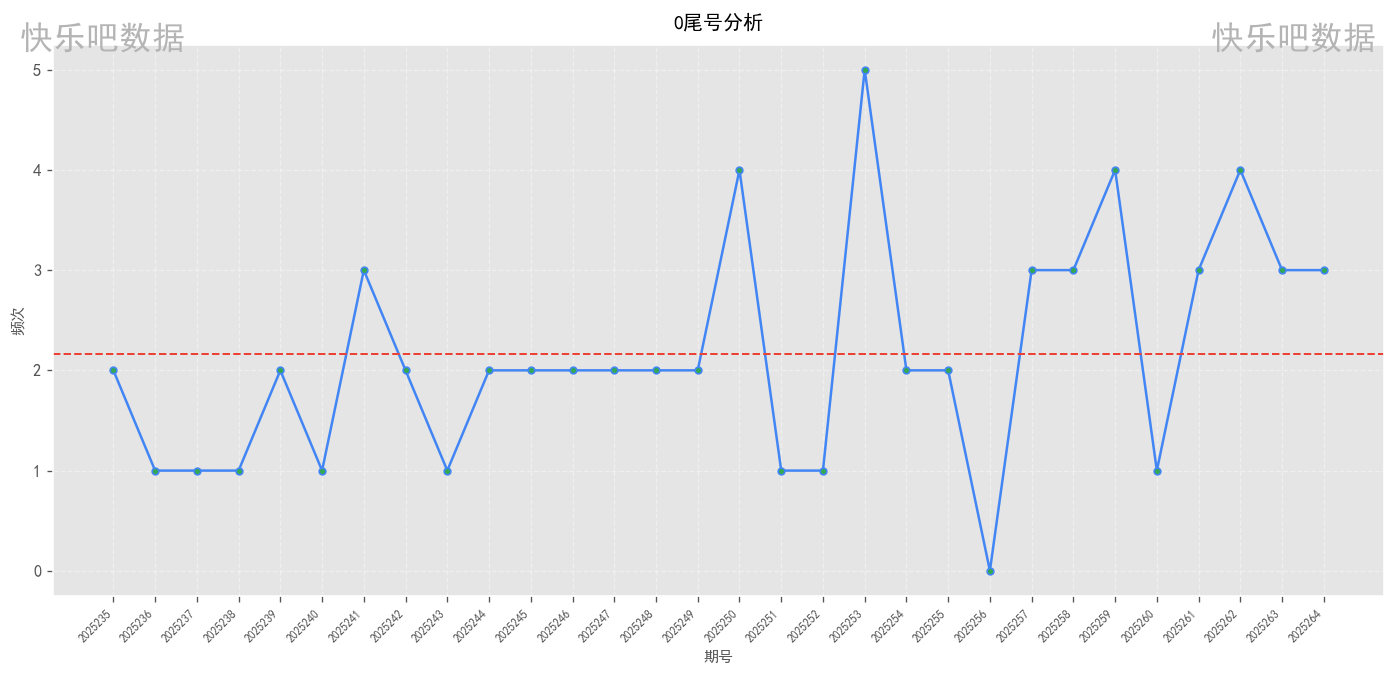
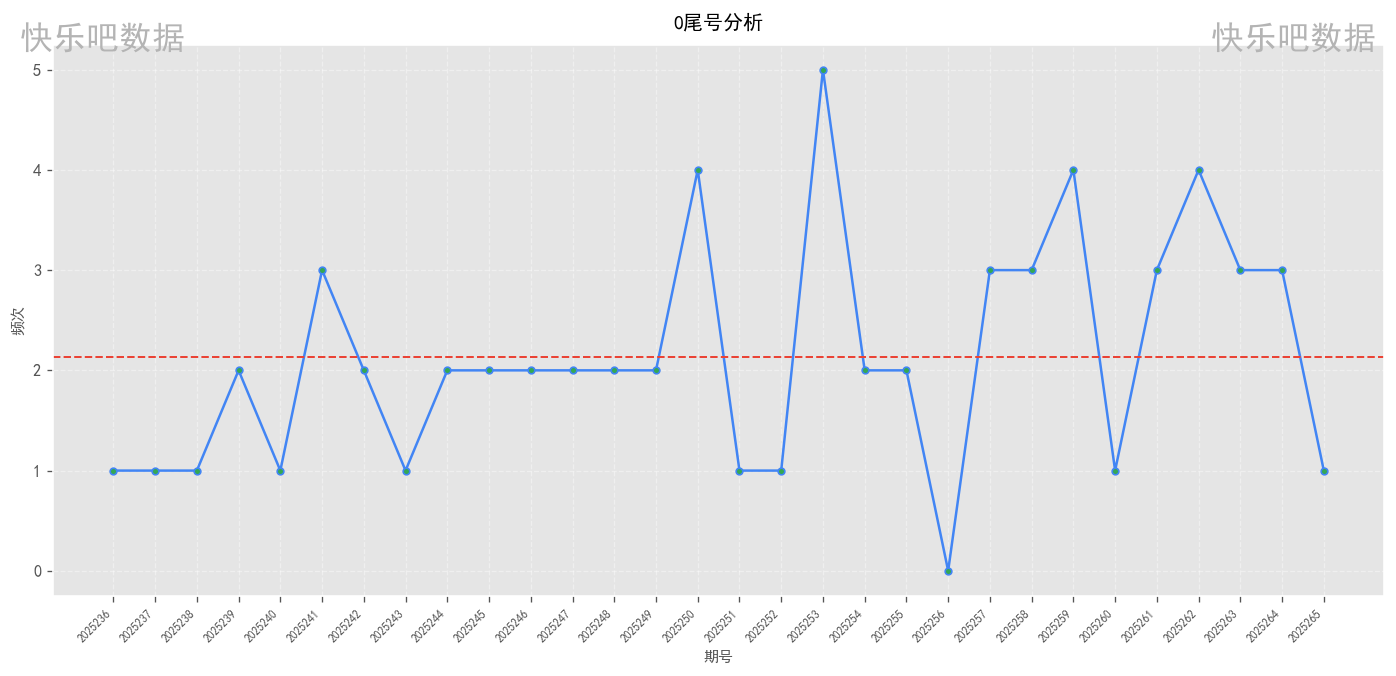
自动提交报告 20251006_2238

diff --git a/快乐8尾号分析项目/数据报告/20251006/report.html b/快乐8尾号分析项目/数据报告/20251006/report.html
@@ -440,7 +440,7 @@
                     <div class="label">尾号区间</div>
                 </div>
                 <div class="overview-card">
-                    <div class="value">2025264</div>
+                    <div class="value">2025265</div>
                     <div class="label">最新期号</div>
                 </div>
                 <div class="overview-card">
@@ -464,7 +464,7 @@
             <div class="stats-summary">
                 <div class="stat-item">
                     <span class="stat-label">历史平均</span>
-                    <span class="stat-value">2.17</span>
+                    <span class="stat-value">2.13</span>
                 </div>
                 <div class="stat-item">
                     <span class="stat-label">近期平均</span>
@@ -490,7 +490,7 @@
                 </div>
                 <div class="stat-item">
                     <span class="stat-label">近期平均</span>
-                    <span class="stat-value">1.80</span>
+                    <span class="stat-value">1.00</span>
                 </div>
                 <div class="stat-item">
                     <span class="stat-label">最高频次</span>
@@ -508,11 +508,11 @@
             <div class="stats-summary">
                 <div class="stat-item">
                     <span class="stat-label">历史平均</span>
-                    <span class="stat-value">1.87</span>
+                    <span class="stat-value">1.93</span>
                 </div>
                 <div class="stat-item">
                     <span class="stat-label">近期平均</span>
-                    <span class="stat-value">1.80</span>
+                    <span class="stat-value">2.40</span>
                 </div>
                 <div class="stat-item">
                     <span class="stat-label">最高频次</span>
@@ -530,11 +530,11 @@
             <div class="stats-summary">
                 <div class="stat-item">
                     <span class="stat-label">历史平均</span>
-                    <span class="stat-value">2.27</span>
+                    <span class="stat-value">2.10</span>
                 </div>
                 <div class="stat-item">
                     <span class="stat-label">近期平均</span>
-                    <span class="stat-value">1.80</span>
+                    <span class="stat-value">1.40</span>
                 </div>
                 <div class="stat-item">
                     <span class="stat-label">最高频次</span>
@@ -574,11 +574,11 @@
             <div class="stats-summary">
                 <div class="stat-item">
                     <span class="stat-label">历史平均</span>
-                    <span class="stat-value">2.33</span>
+                    <span class="stat-value">2.37</span>
                 </div>
                 <div class="stat-item">
                     <span class="stat-label">近期平均</span>
-                    <span class="stat-value">2.40</span>
+                    <span class="stat-value">2.60</span>
                 </div>
                 <div class="stat-item">
                     <span class="stat-label">最高频次</span>
@@ -596,11 +596,11 @@
             <div class="stats-summary">
                 <div class="stat-item">
                     <span class="stat-label">历史平均</span>
-                    <span class="stat-value">2.17</span>
+                    <span class="stat-value">2.23</span>
                 </div>
                 <div class="stat-item">
                     <span class="stat-label">近期平均</span>
-                    <span class="stat-value">1.60</span>
+                    <span class="stat-value">1.80</span>
                 </div>
                 <div class="stat-item">
                     <span class="stat-label">最高频次</span>
@@ -618,11 +618,11 @@
             <div class="stats-summary">
                 <div class="stat-item">
                     <span class="stat-label">历史平均</span>
-                    <span class="stat-value">1.93</span>
+                    <span class="stat-value">1.97</span>
                 </div>
                 <div class="stat-item">
                     <span class="stat-label">近期平均</span>
-                    <span class="stat-value">1.80</span>
+                    <span class="stat-value">2.00</span>
                 </div>
                 <div class="stat-item">
                     <span class="stat-label">最高频次</span>
@@ -640,7 +640,7 @@
             <div class="stats-summary">
                 <div class="stat-item">
                     <span class="stat-label">历史平均</span>
-                    <span class="stat-value">1.83</span>
+                    <span class="stat-value">1.87</span>
                 </div>
                 <div class="stat-item">
                     <span class="stat-label">近期平均</span>
@@ -662,7 +662,7 @@
             <div class="stats-summary">
                 <div class="stat-item">
                     <span class="stat-label">历史平均</span>
-                    <span class="stat-value">1.67</span>
+                    <span class="stat-value">1.63</span>
                 </div>
                 <div class="stat-item">
                     <span class="stat-label">近期平均</span>
@@ -690,7 +690,7 @@
         <div class="disclaimer">
             <div class="disclaimer-title"><i class="fas fa-exclamation-circle"></i> 法律声明</div>
             <p>本分析报告基于中国福利彩票官网公开数据制作，仅供历史数据分析与参考，严禁用于赌博或任何违法违规用途。</p>
-            <p>根据中国法律，禁止向未成年人传播彩票相关信息。数据统计周期: 2025235期-2025264期 | 生成时间: 2025-10-06 11:58</p>
+            <p>根据中国法律，禁止向未成年人传播彩票相关信息。数据统计周期: 2025236期-2025265期 | 生成时间: 2025-10-06 22:38</p>
         </div>
 
         <!-- 操作按钮 -->
